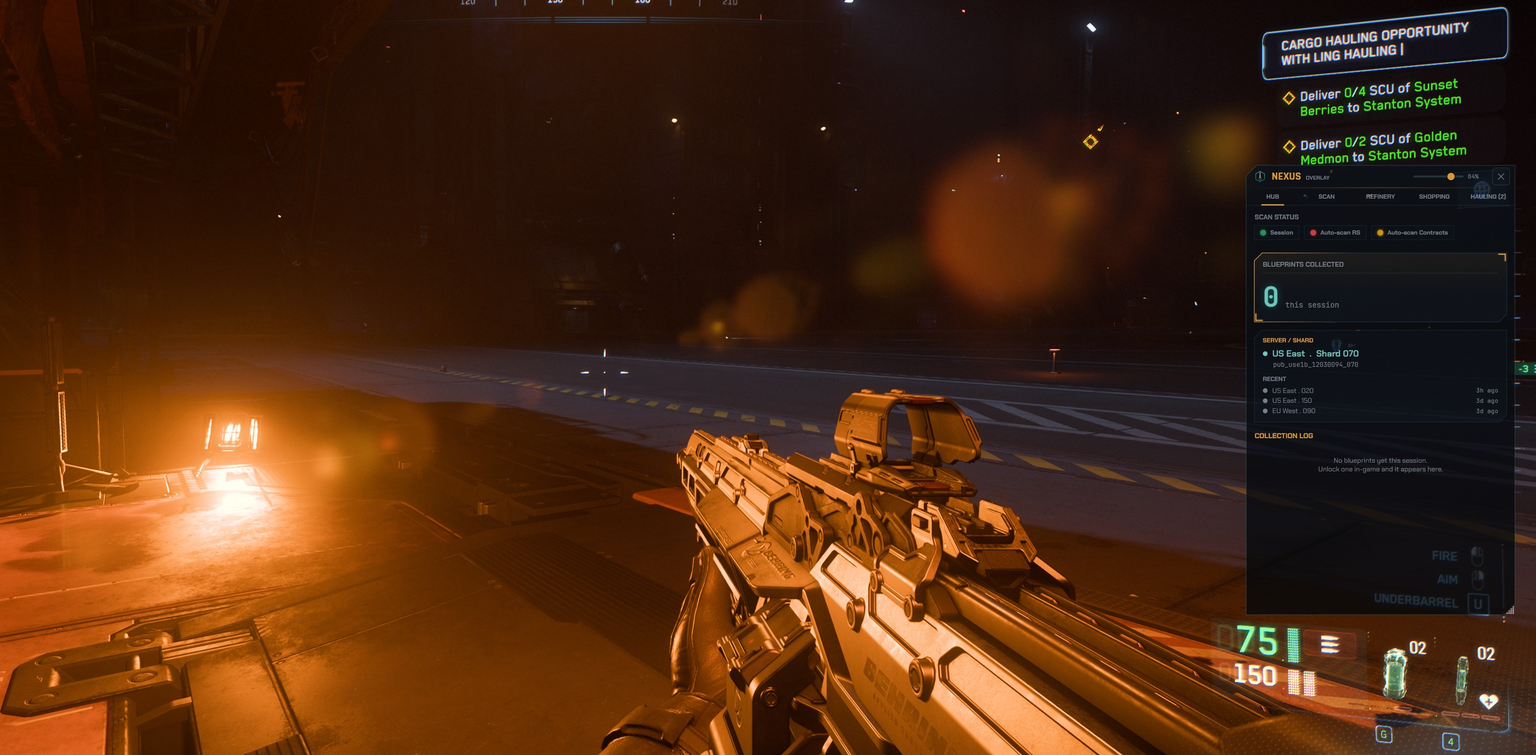
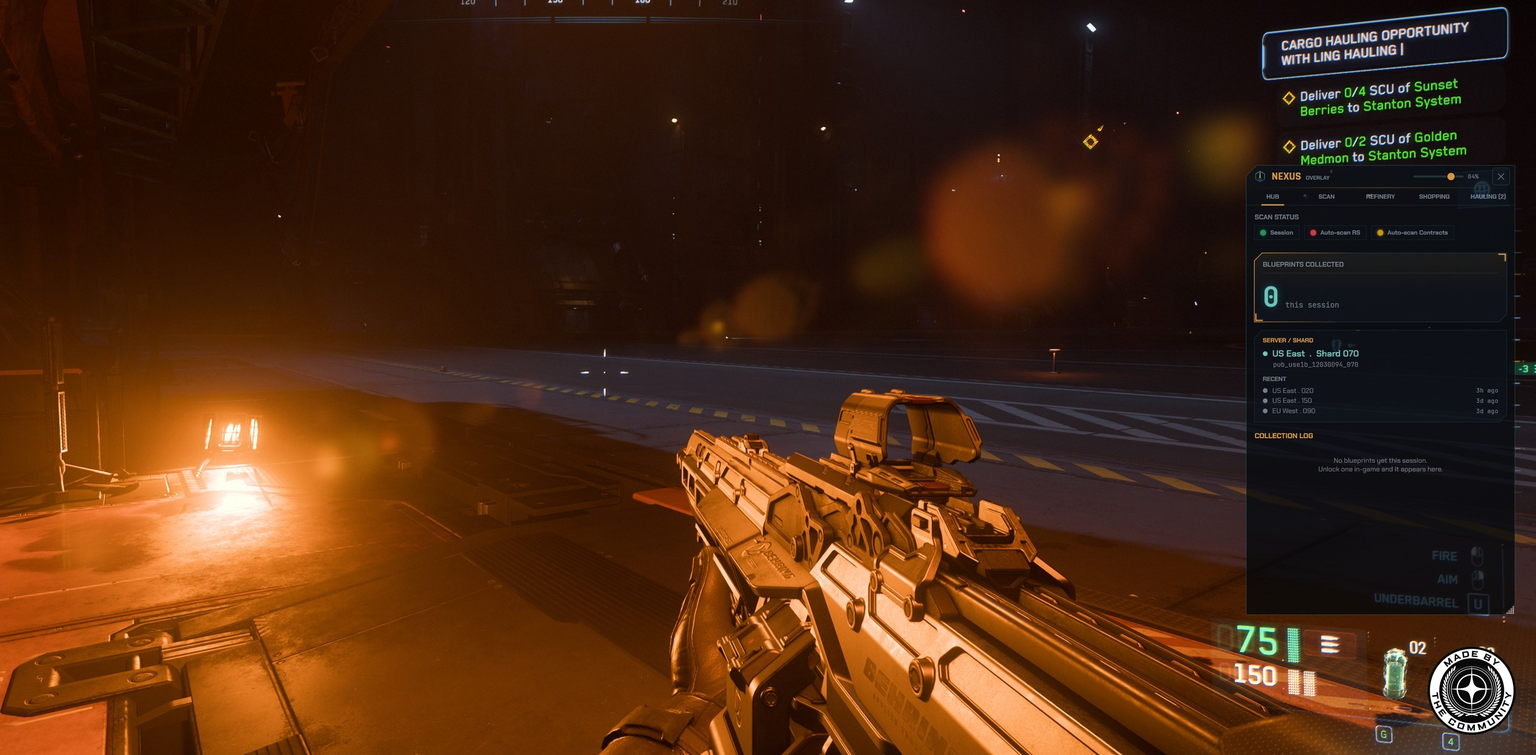
chore: align trademark notices and fan marks with the SC Fan Kit
Adds the required Cloud Imperium Rights LLC notice and the Made By The Community mark.

Changed region(s): [[0.9046, 0.8371, 0.9982, 0.9921]]

diff --git a/README.md b/README.md
@@ -4,11 +4,18 @@
   <img src="NexusApp/Assets/nexus_logo_classic.png" alt="Nexus logo" width="240">
 </p>
 
+<p align="center">
+  <picture>
+    <source media="(prefers-color-scheme: dark)" srcset="docs/made-by-the-community-white.png">
+    <img src="docs/made-by-the-community-black.png" alt="Star Citizen Made By The Community" width="96">
+  </picture>
+</p>
+
 **The offline, EAC-safe companion for Star Citizen's mine, refine, craft, haul loop.**
 
 Nexus decodes RS scan values into resource type and node count, times your refinery jobs, and doubles as a searchable reference for resources, blueprints, and which blueprints you own. It reads the game log to auto-collect blueprints the moment you unlock them and to merge your accepted hauling contracts into one consolidated pickup and delivery route, all from an overlay that floats over the game, **fully offline**. The **Blueprint Network** extends ownership tracking to friends or your org: trade library files and everyone sees who owns what.
 
-> **Disclaimer:** Nexus is an unofficial, fan-made tool. It is **not** affiliated with, endorsed by, or sponsored by Cloud Imperium Games (CIG) or Roberts Space Industries (RSI). Star Citizen is a trademark of CIG.
+> **Disclaimer:** Nexus is an unofficial, fan-made tool. It is **not** affiliated with, endorsed by, or sponsored by Cloud Imperium Games (CIG) or Roberts Space Industries (RSI). Star Citizen®, Roberts Space Industries® and Cloud Imperium® are registered trademarks of Cloud Imperium Rights LLC.
 
 > **EAC-safe by design:** Nexus runs entirely outside Star Citizen - no injection, no memory reading, no game files modified. It only captures your screen (the standard Windows OCR APIs) and reads the plain-text `Game.log` the game writes to disk (read-only, opened shared). It installs per-user, runs fully offline, and the whole pipeline is open source in this repo. There's nothing for Easy Anti-Cheat to flag.
 

diff --git a/.github/release_body.md b/.github/release_body.md
@@ -48,4 +48,4 @@ Run the app directly, with no installation.
 - **Refinery Tracker** — live countdown timers for refinery jobs
 
 ---
-*Nexus is not affiliated with, endorsed by, or sponsored by Cloud Imperium Games or Roberts Space Industries. Star Citizen is a trademark of CIG.*
+*Nexus is not affiliated with, endorsed by, or sponsored by Cloud Imperium Games or Roberts Space Industries. Star Citizen®, Roberts Space Industries® and Cloud Imperium® are registered trademarks of Cloud Imperium Rights LLC.*
